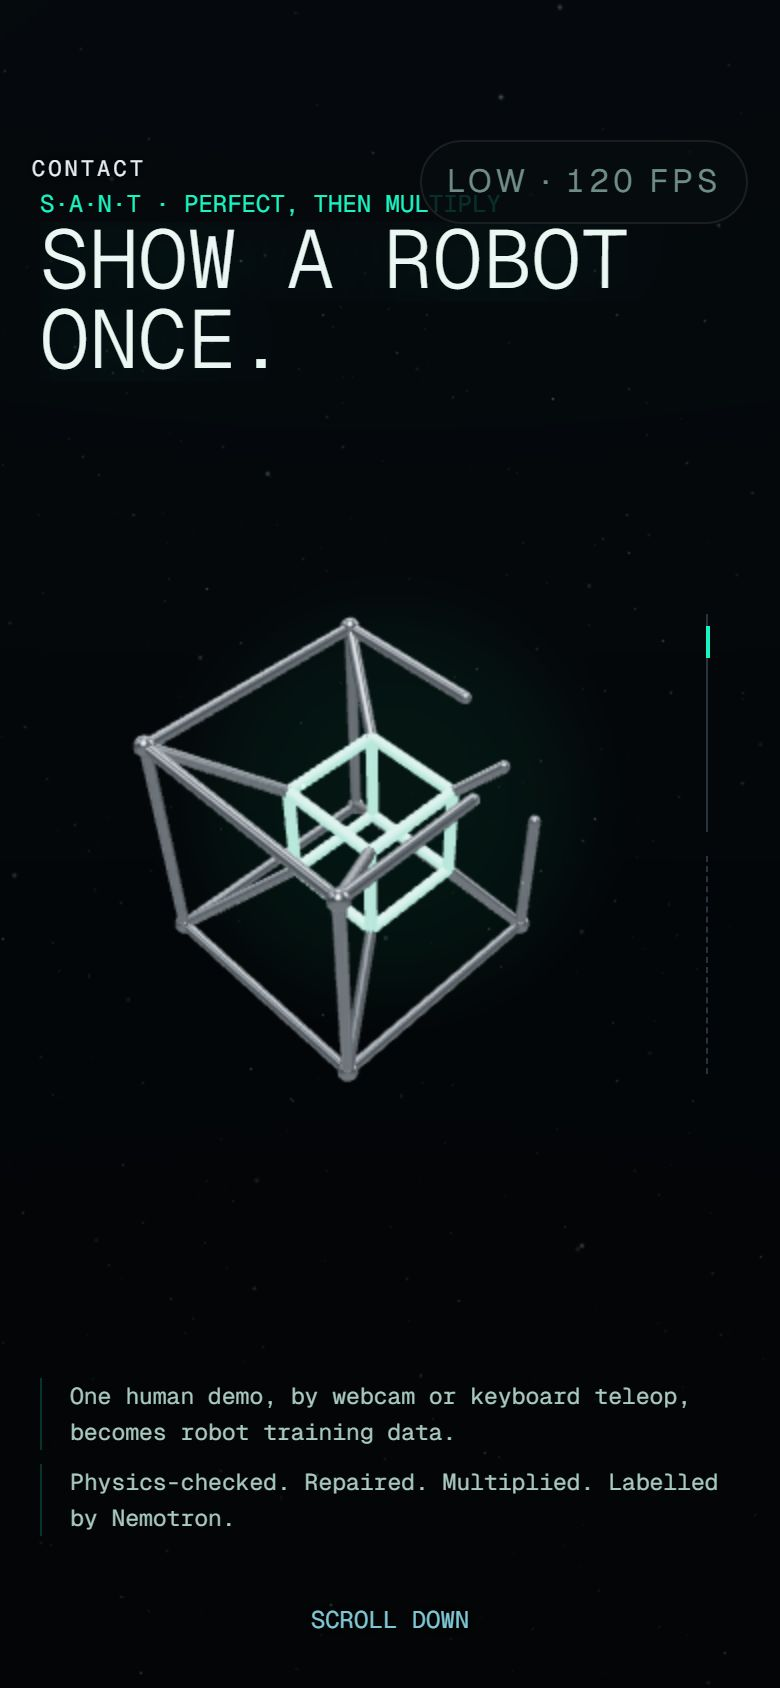
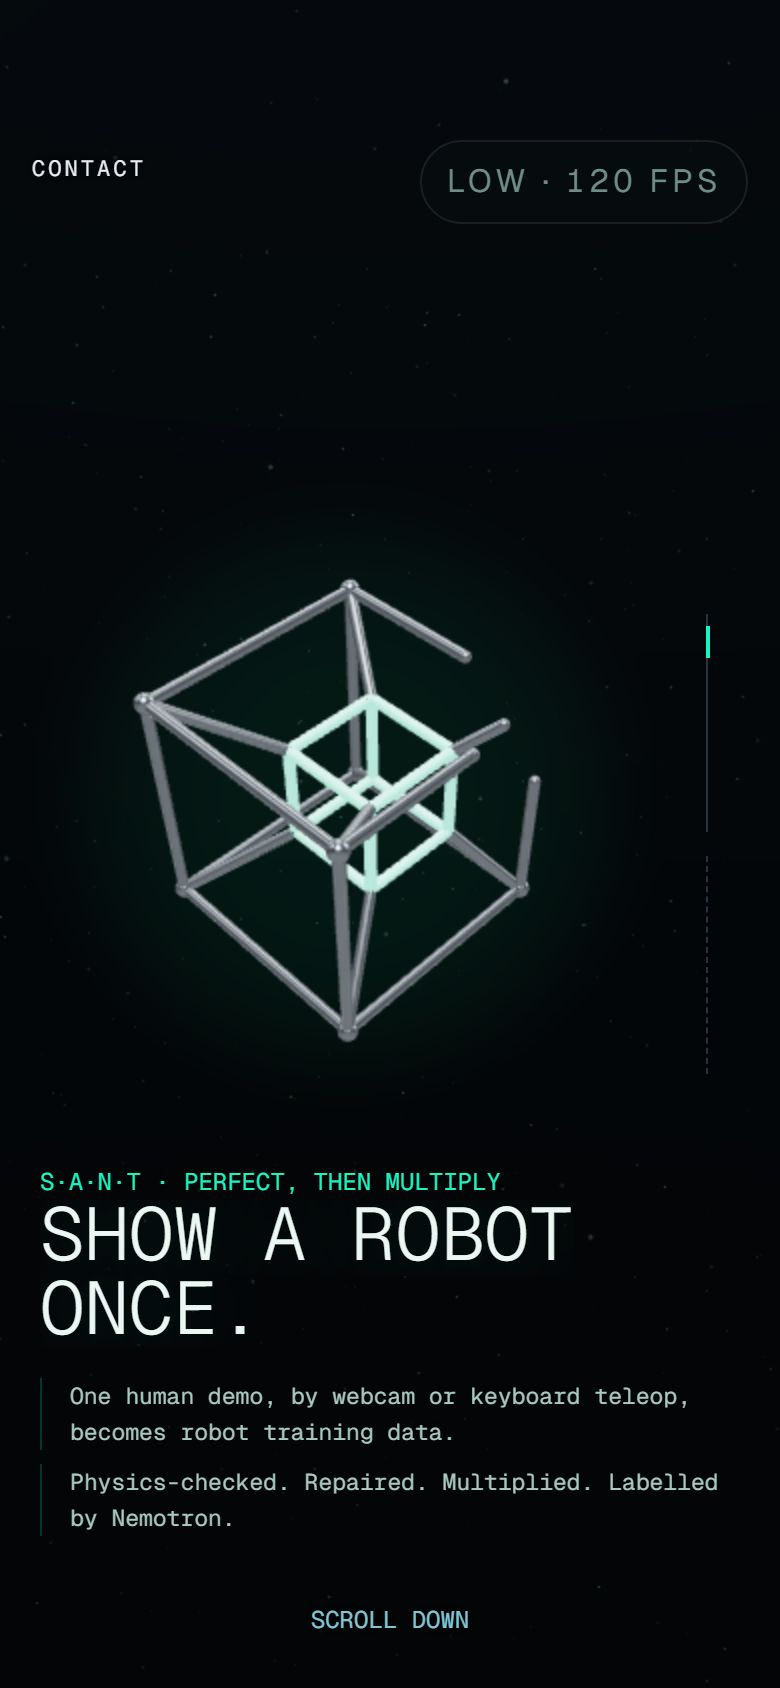
Hero: the tesseract is the hero (copy stacked left / below on phones, tesseract large on the right), glow follows it
- intro.css + Story.tsx: intro-beat--hero stacks the kicker, headline and column on the left (headline 5.4vw);
  on phones the copy sits under the tesseract.
- Scene.tsx: the tesseract sized for its still pose at ~56% of the screen height, in the largest space clear of
  the page's boxes (its whole 4D reach); the backdrop's soft glow follows it (uGlow).
- heroSlot.test.ts: the new measured layouts (clear, large, right half / above the copy).
- layout.ts: a stale logo3d.ts comment.
- stills/story.webp and screenshots 01, 01b, 08, 10, 11 re-shot.

diff --git a/web/src/world/stations/intro/Scene.tsx b/web/src/world/stations/intro/Scene.tsx
@@ -26,7 +26,7 @@ import { load } from "./progress";
 import { backdropFrag, backdropVert, dustFrag, dustVert } from "./shaders";
 import { INTRO_VH, logoPose, placeLights } from "./storyPlan";
 import { CHROME_ENV, makeTesseract, TESSERACT_LOOK, type TesseractHandle } from "./Tesseract";
-import { HYPER_RADIUS, hyperPose, ISO } from "./tesseractPlan";
+import { HYPER_RADIUS, hyperPose, ISO, STILL_RADIUS } from "./tesseractPlan";
 
 // The forest and the reactor: after the first frame, with their STL loader and shaders.
 const Places = lazy(() => import("./Places"));
@@ -74,14 +74,22 @@ function makeLogo(q: QualityTier, env: THREE.Texture): Logo {
  *  contact button, the station rail, the quality chip. */
 const KEEP_CLEAR = [".intro-beat__main", ".intro-beat__col", ".intro-down", ".world-brand", ".world-contact", ".world-rail", ".world-q"];
 
+/** The tesseract is the hero: its still pose about this much of the screen's height, where the space allows. */
+const HERO_SIZE = 0.56;
+/** The backdrop sphere's radius (makeBackdrop). */
+const BACKDROP_R = 80;
+
 interface Placement {
   position: THREE.Vector3;
-  /** Of its designed size (1 at most). */
+  /** Of its old fixed size. */
   scale: number;
+  /** Where the backdrop's soft glow sits: the direction (from the backdrop's centre) behind the tesseract. */
+  glow: THREE.Vector3;
 }
 
-/** Where the tesseract floats and how large, so that even at its widest turn it stays in the largest space clear of
- *  the page's boxes (heroSlot.ts), as seen from the hero's camera at the canvas's size. */
+/** Where the tesseract floats and how large: as large as HERO_SIZE asks, in the largest space clear of the page's
+ *  boxes (heroSlot.ts), so that even its widest 4D reach never covers the type; seen from the hero's camera at the
+ *  canvas's size. */
 function place(canvas: HTMLCanvasElement, tubeR: number): Placement {
   const c = canvas.getBoundingClientRect();
   const w = c.width || 1, h = c.height || 1;
@@ -99,13 +107,20 @@ function place(canvas: HTMLCanvasElement, tubeR: number): Placement {
   cam.updateMatrixWorld();
   const forward = cam.getWorldDirection(new THREE.Vector3());
   const depth = new THREE.Vector3(...LOGO).sub(cam.position).dot(forward);
-  // Its widest reach (a corner and its ball) at the designed size, in pixels at the logo's depth.
+  // Its widest reach (a corner and its ball) at the old size, in pixels at the logo's depth.
   const reach = (HYPER_RADIUS + tubeR * 1.7) * LOGO_R;
-  const design = (reach / (depth * Math.tan(THREE.MathUtils.degToRad(fov) / 2))) * (h / 2);
-  const slot = heroSlot({ w, h }, keep, { pad: 16, margin: 12, maxR: design });
+  const base = (reach / (depth * Math.tan(THREE.MathUtils.degToRad(fov) / 2))) * (h / 2);
+  // The size asked for: the still pose HERO_SIZE of the height, so its reach that much larger again.
+  const want = (HERO_SIZE * h) / 2 * (HYPER_RADIUS / STILL_RADIUS);
+  const slot = heroSlot({ w, h }, keep, { pad: 16, margin: 12, maxR: want });
   const ray = new THREE.Vector3((slot.cx / w) * 2 - 1, 1 - (slot.cy / h) * 2, 0.5).unproject(cam).sub(cam.position).normalize();
   const position = cam.position.clone().addScaledVector(ray, depth / ray.dot(forward));
-  return { position, scale: Math.min(1, slot.r / design) };
+  // The glow: where that ray meets the backdrop sphere (centred on LOGO).
+  const o = cam.position.clone().sub(new THREE.Vector3(...LOGO));
+  const b = o.dot(ray);
+  const t = -b + Math.sqrt(Math.max(0, b * b - (o.lengthSq() - BACKDROP_R * BACKDROP_R)));
+  const glow = o.addScaledVector(ray, t).normalize();
+  return { position, scale: slot.r / base, glow };
 }
 
 function makeBackdrop() {
@@ -119,9 +134,10 @@ function makeBackdrop() {
       uDim: { value: 0 },
       uBase: { value: new THREE.Color("#04080b") },
       uLeak: { value: new THREE.Color("#19f5c2") },
+      uGlow: { value: new THREE.Vector3(0, 0, -1) },
     },
   });
-  const geo = new THREE.SphereGeometry(80, 48, 24);
+  const geo = new THREE.SphereGeometry(BACKDROP_R, 48, 24);
   const mesh = new THREE.Mesh(geo, mat);
   mesh.position.set(...LOGO);
   // First, behind everything; opaque, so the glass refracts it.
@@ -175,7 +191,7 @@ export function IntroScene({ frame, quality, reduced }: StationSceneProps) {
   // Sparse: a third of the tier's dust, so the space reads empty and deep.
   const dust = useMemo(() => makeDust(Math.round(quality.dustParticles / 3)), [quality.dustParticles]);
   const st = useRef({ readyAt: null as number | null, mx: 0, my: 0, spin: 0, spin4: 0 });
-  const slot = useRef<Placement>({ position: new THREE.Vector3(...LOGO), scale: 1 });
+  const slot = useRef<Placement>({ position: new THREE.Vector3(...LOGO), scale: 1, glow: new THREE.Vector3(0, 0, -1) });
 
   // Placed clear of the page's type: on load, as the fonts and the hero's words settle, and on every resize.
   useEffect(() => {
@@ -261,6 +277,7 @@ export function IntroScene({ frame, quality, reduced }: StationSceneProps) {
 
     const b = backdrop.mat.uniforms;
     b.uDim.value = 1 - light;
+    (b.uGlow.value as THREE.Vector3).copy(slot.current.glow);
     backdrop.mesh.visible = light > 0;
     dust.visible = light > 0;
 

diff --git a/web/src/world/stations/intro/heroSlot.test.ts b/web/src/world/stations/intro/heroSlot.test.ts
@@ -4,45 +4,56 @@ import { heroSlot, type Box } from "./heroSlot";
 const box = ([left, top, right, bottom]: number[]): Box => ({ left, top, right, bottom });
 const dist = (x: number, y: number, b: Box) => Math.hypot(Math.max(b.left - x, 0, x - b.right), Math.max(b.top - y, 0, y - b.bottom));
 
-/** The hero's boxes as headless Chrome laid them out (the hero beat's headline and column, the scroll hint, the
- *  brand, the contact button, the station rail, the quality chip), at the three sizes the site is checked at. */
-const LAYOUTS: { name: string; w: number; h: number; keep: Box[] }[] = [
+/** The hero's boxes as headless Chrome laid them out with the tesseract as the hero (the copy stacked on the left,
+ *  on phones under it): the headline and kicker, the column, the scroll hint, the brand, the contact button, the
+ *  station rail, the quality chip, at the three sizes the site is checked at. */
+const LAYOUTS: { name: string; w: number; h: number; keep: Box[]; big: number }[] = [
   {
     name: "1280x720",
     w: 1280,
     h: 720,
-    keep: [[77, 268, 685, 452], [791, 312, 1111, 408], [564, 652, 701, 670], [24, 22, 250, 40], [1180, 18, 1242, 36], [1132, 266, 1240, 456], [1088, 658, 1245, 698]].map(box),
+    keep: [[77, 220, 574, 373], [77, 403, 437, 500], [564, 652, 701, 670], [24, 22, 247, 40], [1184, 18, 1241, 35], [1130, 265, 1239, 455], [1088, 658, 1245, 700]].map(box),
+    big: 0.3 * 720,
   },
   {
     name: "1920x1080",
     w: 1920,
     h: 1080,
-    keep: [[115, 410, 1008, 671], [1415, 492, 1735, 588], [884, 986, 1021, 1004], [24, 22, 250, 40], [1820, 18, 1882, 36], [1772, 446, 1880, 636], [1728, 1018, 1885, 1058]].map(box),
+    keep: [[115, 366, 862, 587], [115, 617, 475, 714], [884, 986, 1021, 1004], [24, 22, 247, 40], [1824, 18, 1881, 35], [1768, 445, 1877, 635], [1728, 1018, 1885, 1060]].map(box),
+    big: 0.3 * 1080,
   },
   {
     name: "390x844 (phone)",
     w: 390,
     h: 844,
-    keep: [[20, 93, 370, 191], [20, 689, 370, 768], [127, 801, 263, 819], [16, 74, 150, 92], [222, 70, 374, 112], [350, 306, 356, 538]].map(box),
+    keep: [[20, 582, 287, 673], [20, 689, 370, 768], [127, 801, 263, 819], [16, 76, 73, 93], [353, 307, 382, 537], [205, 70, 374, 112]].map(box),
+    big: 0.4 * 390,
   },
 ];
 
 describe("where the hero's tesseract floats: the largest clear space, never over the type", () => {
   for (const l of LAYOUTS)
-    it(`keeps it clear of every box at ${l.name}, inside the screen, and not tiny`, () => {
+    it(`keeps it clear of every box at ${l.name}, inside the screen, and large: the hero (its whole 4D reach in the circle)`, () => {
       const s = heroSlot({ w: l.w, h: l.h }, l.keep, { pad: 16, margin: 12, maxR: 10_000 });
       for (const b of l.keep) expect(dist(s.cx, s.cy, b), `${l.name}: ${JSON.stringify(b)}`).toBeGreaterThanOrEqual(s.r + 16 - 1e-6);
       expect(s.cx - s.r).toBeGreaterThanOrEqual(12 - 1e-6);
       expect(s.cy - s.r).toBeGreaterThanOrEqual(12 - 1e-6);
       expect(s.cx + s.r).toBeLessThanOrEqual(l.w - 12 + 1e-6);
       expect(s.cy + s.r).toBeLessThanOrEqual(l.h - 12 + 1e-6);
-      expect(s.r).toBeGreaterThan(Math.min(l.w, l.h) * 0.12);
+      expect(s.r).toBeGreaterThan(l.big);
     });
 
   it("never grows past its designed size, and then sits as near the screen's centre as it can", () => {
     const s = heroSlot({ w: 1000, h: 800 }, [], { pad: 16, margin: 12, maxR: 150 });
     expect(s.r).toBe(150);
     expect(Math.hypot(s.cx - 500, s.cy - 400)).toBeLessThan(10);
+  });
+
+  it("sits in the right half on desktop (the copy has the left), and above the copy on phones", () => {
+    const [desk, wide, phone] = LAYOUTS.map((l) => heroSlot({ w: l.w, h: l.h }, l.keep, { pad: 16, margin: 12, maxR: 10_000 }));
+    expect(desk.cx).toBeGreaterThan(1280 / 2);
+    expect(wide.cx).toBeGreaterThan(1920 / 2);
+    expect(phone.cy + phone.r).toBeLessThan(582);
   });
 
   it("is the same for the same layout (it only moves when the layout does)", () => {

diff --git a/web/src/world/stations/intro/shaders.ts b/web/src/world/stations/intro/shaders.ts
@@ -1,6 +1,6 @@
 // The opening's shaders. The dust is the prototype's (site-journey.html), its point size clamped in
 // the shader (3.5 px times the pixel ratio: unclamped points near the camera stalled the prototype),
-// with the column's floor and height as uniforms. The backdrop is the dark space round the glass logo.
+// with the column's floor and height as uniforms. The backdrop is the dark space round the tesseract.
 
 export const dustVert = /* glsl */ `
 attribute vec4 aRand; uniform float uTime, uPR, uMix, uSize, uY0, uH; uniform vec3 uHigh, uLow, uWarm;
@@ -36,18 +36,17 @@ void main(){
 
 /**
  * Near-black with a little lift toward the top, the teal light leak up and to the left (Active
- * Theory's corner glow), and a faint glow behind the logo: transmission only refracts what is drawn
- * opaque behind the glass, so this is what it carries (its bright edges come from the studio's reflections).
+ * Theory's corner glow), and a soft glow behind the tesseract, which follows it where the hero places it.
  */
 export const backdropFrag = /* glsl */ `
-uniform float uDim; uniform vec3 uBase, uLeak;
+uniform float uDim; uniform vec3 uBase, uLeak, uGlow;
 varying vec3 vDir;
 void main(){
   vec3 d = normalize(vDir);
   vec3 c = uBase * (.65 + .55 * smoothstep(-.6, .9, d.y));
   c += uLeak * pow(max(0., dot(d, normalize(vec3(-.7, .55, .45)))), 7.) * .35;
-  // A soft glow straight behind the logo, so the glass always has some light to carry.
-  c += uLeak * .006 * smoothstep(.96, 1., -d.z);
+  // A soft glow behind the tesseract, wherever the hero has placed it (uGlow, Scene.tsx).
+  c += uLeak * .008 * smoothstep(.93, 1., dot(d, uGlow));
   gl_FragColor = vec4(c * (1. - uDim), 1.);
   #include <colorspace_fragment>
 }`;

diff --git a/web/src/world/stations/intro/intro.css b/web/src/world/stations/intro/intro.css
@@ -92,6 +92,31 @@
   left: var(--edge);
 }
 
+/* The hero beat: the tesseract is the hero (Scene.tsx floats it in the space this leaves). The kicker, the
+   headline and the column stack on the left, the right half is the tesseract's. */
+.intro-beat--hero {
+  display: flex;
+  flex-direction: column;
+  justify-content: center;
+  align-items: flex-start;
+  gap: 30px;
+  padding-left: var(--edge);
+}
+
+.intro-beat--hero .intro-beat__main,
+.intro-beat--hero .intro-beat__col {
+  position: static;
+  transform: none;
+}
+
+.intro-beat--hero .intro-beat__head {
+  font-size: clamp(40px, 5.4vw, 104px);
+}
+
+.intro-beat--hero .intro-beat__col {
+  width: min(360px, 32vw);
+}
+
 .intro-beat__kicker {
   margin: 0 0 18px;
   color: var(--w-teal);
@@ -219,6 +244,21 @@
   .intro-story .world-hint,
   .intro-down {
     bottom: 3vh;
+  }
+
+  /* The hero on phones: the tesseract on top, the copy under it. */
+  .intro-beat--hero {
+    justify-content: flex-end;
+    gap: 16px;
+    padding: 0 20px 9vh;
+  }
+
+  .intro-beat--hero .intro-beat__head {
+    font-size: clamp(32px, 9.5vw, 52px);
+  }
+
+  .intro-beat--hero .intro-beat__col {
+    width: auto;
   }
 }
 

diff --git a/web/src/world/stations/intro/Story.tsx b/web/src/world/stations/intro/Story.tsx
@@ -29,6 +29,8 @@ const COPY: BeatCopy[] = [
     kicker: "S·A·N·T · perfect, then multiply",
     head: ["Show a robot", "once."],
     side: "left",
+    // The tesseract is the hero: the copy stacks on the left (on phones, under it), the right half is its.
+    className: "intro-beat--hero",
     items: [
       <p key="a">One human demo, by webcam or keyboard teleop, becomes robot training data.</p>,
       <p key="b">Physics-checked. Repaired. Multiplied. Labelled by Nemotron.</p>,

diff --git a/web/src/world/stations/intro/layout.ts b/web/src/world/stations/intro/layout.ts
@@ -30,7 +30,7 @@ export const LOGO_SCALE = 22 / 16.5;
  * tube is as thick as their stroke. THE RING has the same tube.
  */
 export const RING = { radius: 4.2, tube: 0.37 } as const;
-
+/** The ring's radius in world metres, which is also the hero tesseract's unit (tesseractPlan.ts: the old ring at 1). */
 /** The ring's radius in world metres, which is also the 3D logo's scale (logo3d.ts: the arcs at 1). */
 export const LOGO_R = RING.radius * LOGO_SCALE;
 

diff --git a/web/src/world/stations/intro/tesseractPlan.ts b/web/src/world/stations/intro/tesseractPlan.ts
@@ -104,6 +104,9 @@ export const HYPER_RADIUS: number = (() => {
   return r * 1.02;
 })();
 
+/** How far its corners reach in the still pose (logo units). */
+export const STILL_RADIUS: number = Math.max(...VERTICES.map((v) => Math.hypot(...project(place4(v, STILL)))));
+
 /** How far toward the open corner its edges reach (of their length, in 4D). */
 export const OPEN_REACH = 0.62;
 

diff --git a/docs/superpowers/notes/2026-10-20-hero-tesseract.md b/docs/superpowers/notes/2026-10-20-hero-tesseract.md
@@ -24,23 +24,26 @@ The user chose the "open-corner tesseract" mark (docs/design/logo). The hero's g
 
   The look follows `tesseract-3d-A.png`.
 
-## Where it floats: never over the type (`heroSlot.ts`)
-The first version sat in the middle, and the headline ran through it. Now:
-- `Scene.tsx` measures the page's boxes on load, as the fonts and words settle, and on every resize:
-  - the hero's headline and column;
-  - the scroll hint;
-  - the brand, the contact button, the station rail and the quality chip.
-- `heroSlot` finds the largest circle clear of them (16 px round each box, 12 px from the edges); among the largest, it takes the one nearest the centre.
-- The tesseract goes there, sized so its widest reach at any 4D angle (`HYPER_RADIUS`, plus a ball) fits. It is never larger than its old size.
-- The hero camera's field of view is fitted to the screen as the rig does (portrait screens get a wider one).
+## The tesseract is the hero: the layout around it
+The first placement put it in the largest clear circle around the old layout. At 1280×720 that tucked it, small, into the upper right. Now the copy makes room:
+- **Desktop.** The hero beat (`intro-beat--hero` in `intro.css`) stacks the kicker, the headline and the small column on the left, the column under "ONCE.". The right half is the tesseract's.
+  - The hero's headline is a little smaller: 5.4vw (from 6.6vw), at most 104 px. At 6.6vw, "SHOW A ROBOT" plus the station rail left too little room for a large tesseract at 1280×720.
+- **Phone.** The tesseract is on top, large, and the copy is under it (kicker, headline, column, then the scroll hint).
+- **Size and place** (`Scene.tsx` + `heroSlot.ts`):
+  - It is as large as `HERO_SIZE` asks: the still pose about 56% of the screen's height.
+  - Its widest 4D reach (`HYPER_RADIUS`, plus a ball) must fit the largest circle clear of the page's boxes: the headline and kicker, the column, the scroll hint, the brand, the contact button, the station rail and the quality chip. The pad is 16 px.
+  - The boxes are measured on load, as the fonts and words settle, and on every resize, with the rig's fitted field of view.
+- **The backdrop's soft teal glow** follows it: it sits where the camera's ray through the tesseract meets the backdrop sphere (`uGlow`).
 
-Results (the tests use the boxes headless Chrome measured):
+Results, from the boxes headless Chrome measured; `heroSlot.test.ts` holds each layout clear, large and on its side:
 
-| Screen | Where | Screenshot |
+| Screen | Reach radius | Where |
 |---|---|---|
-| 1280×720 | Upper right, above the column; the headline-to-column gap is only 106 px there | 01 |
-| 1920×1080 | Right of the headline | 01b |
-| 390×844 | Between the headline and the column | 10 |
+| 1280×720 | 262 px | right half, between the copy and the station rail |
+| 1920×1080 | 435 px | right half |
+| 390×844 | 162 px | on top, above the copy |
+
+Mid-turn frames with the copy showing stay clear. Screenshots: 01, 01b and 10 (the hero), 08 (the still pose), 11 (the fallback).
 
 ## The steel
 The chrome was too white under the bloom. It is now polished steel:
@@ -83,7 +86,7 @@ The hero frame on ultra (HUD): 19 calls, 17,182 triangles, post-processing inclu
 The SVG path to the logo is gone: the mark is now the tesseract in code.
 
 ## Checked
-- **Tests.** Web 1682 passed, 1 skipped. New tests:
+- **Tests.** Web 1683 passed, 1 skipped. One full run had a timing failure in `DataPage.test.tsx` (the data page, untouched here). It passed 3 times alone, and the full rerun was green. New tests:
   - `tesseractPlan.test.ts`: 10. It covers:
     - the vertices, edges and their kinds;
     - rotation keeps lengths, and a full turn comes back;
@@ -94,7 +97,7 @@ The SVG path to the logo is gone: the mark is now the tesseract in code.
     - reduced motion;
     - the scroll is scrubbable and holds past the sink.
   - `Tesseract.test.ts`: 3. It covers three draws with the right counts, tubes laid along their edges, and thinner tubes with fewer sides on low.
-  - `heroSlot.test.ts`: 5. It covers the three layouts, the size cap and centring, and determinism.
+  - `heroSlot.test.ts`: 6. It covers the three layouts (clear, inside, large), the right half on desktop and above the copy on phones, the size cap and centring, and determinism.
   - In `tesseractPlan.test.ts`, the perspective test is now the depth-scaling ratio test, and there is a new test for the reach (`HYPER_RADIUS`).
 - **Typecheck and build** pass.
 - **Screenshots:**
@@ -109,6 +112,5 @@ The SVG path to the logo is gone: the mark is now the tesseract in code.
 
 ## Open
 - **Real-GPU look and frame time** aren't checked (SwiftShader only).
-- **The backdrop's soft teal glow** still sits near the screen's centre, where the old logo was, not behind the tesseract.
 - **Frames 01–07 include some idle turn** (the shots wait a few seconds), so they aren't exact scroll-only poses.
 - **The site header's small logo and the favicon** are separate and not touched here.
